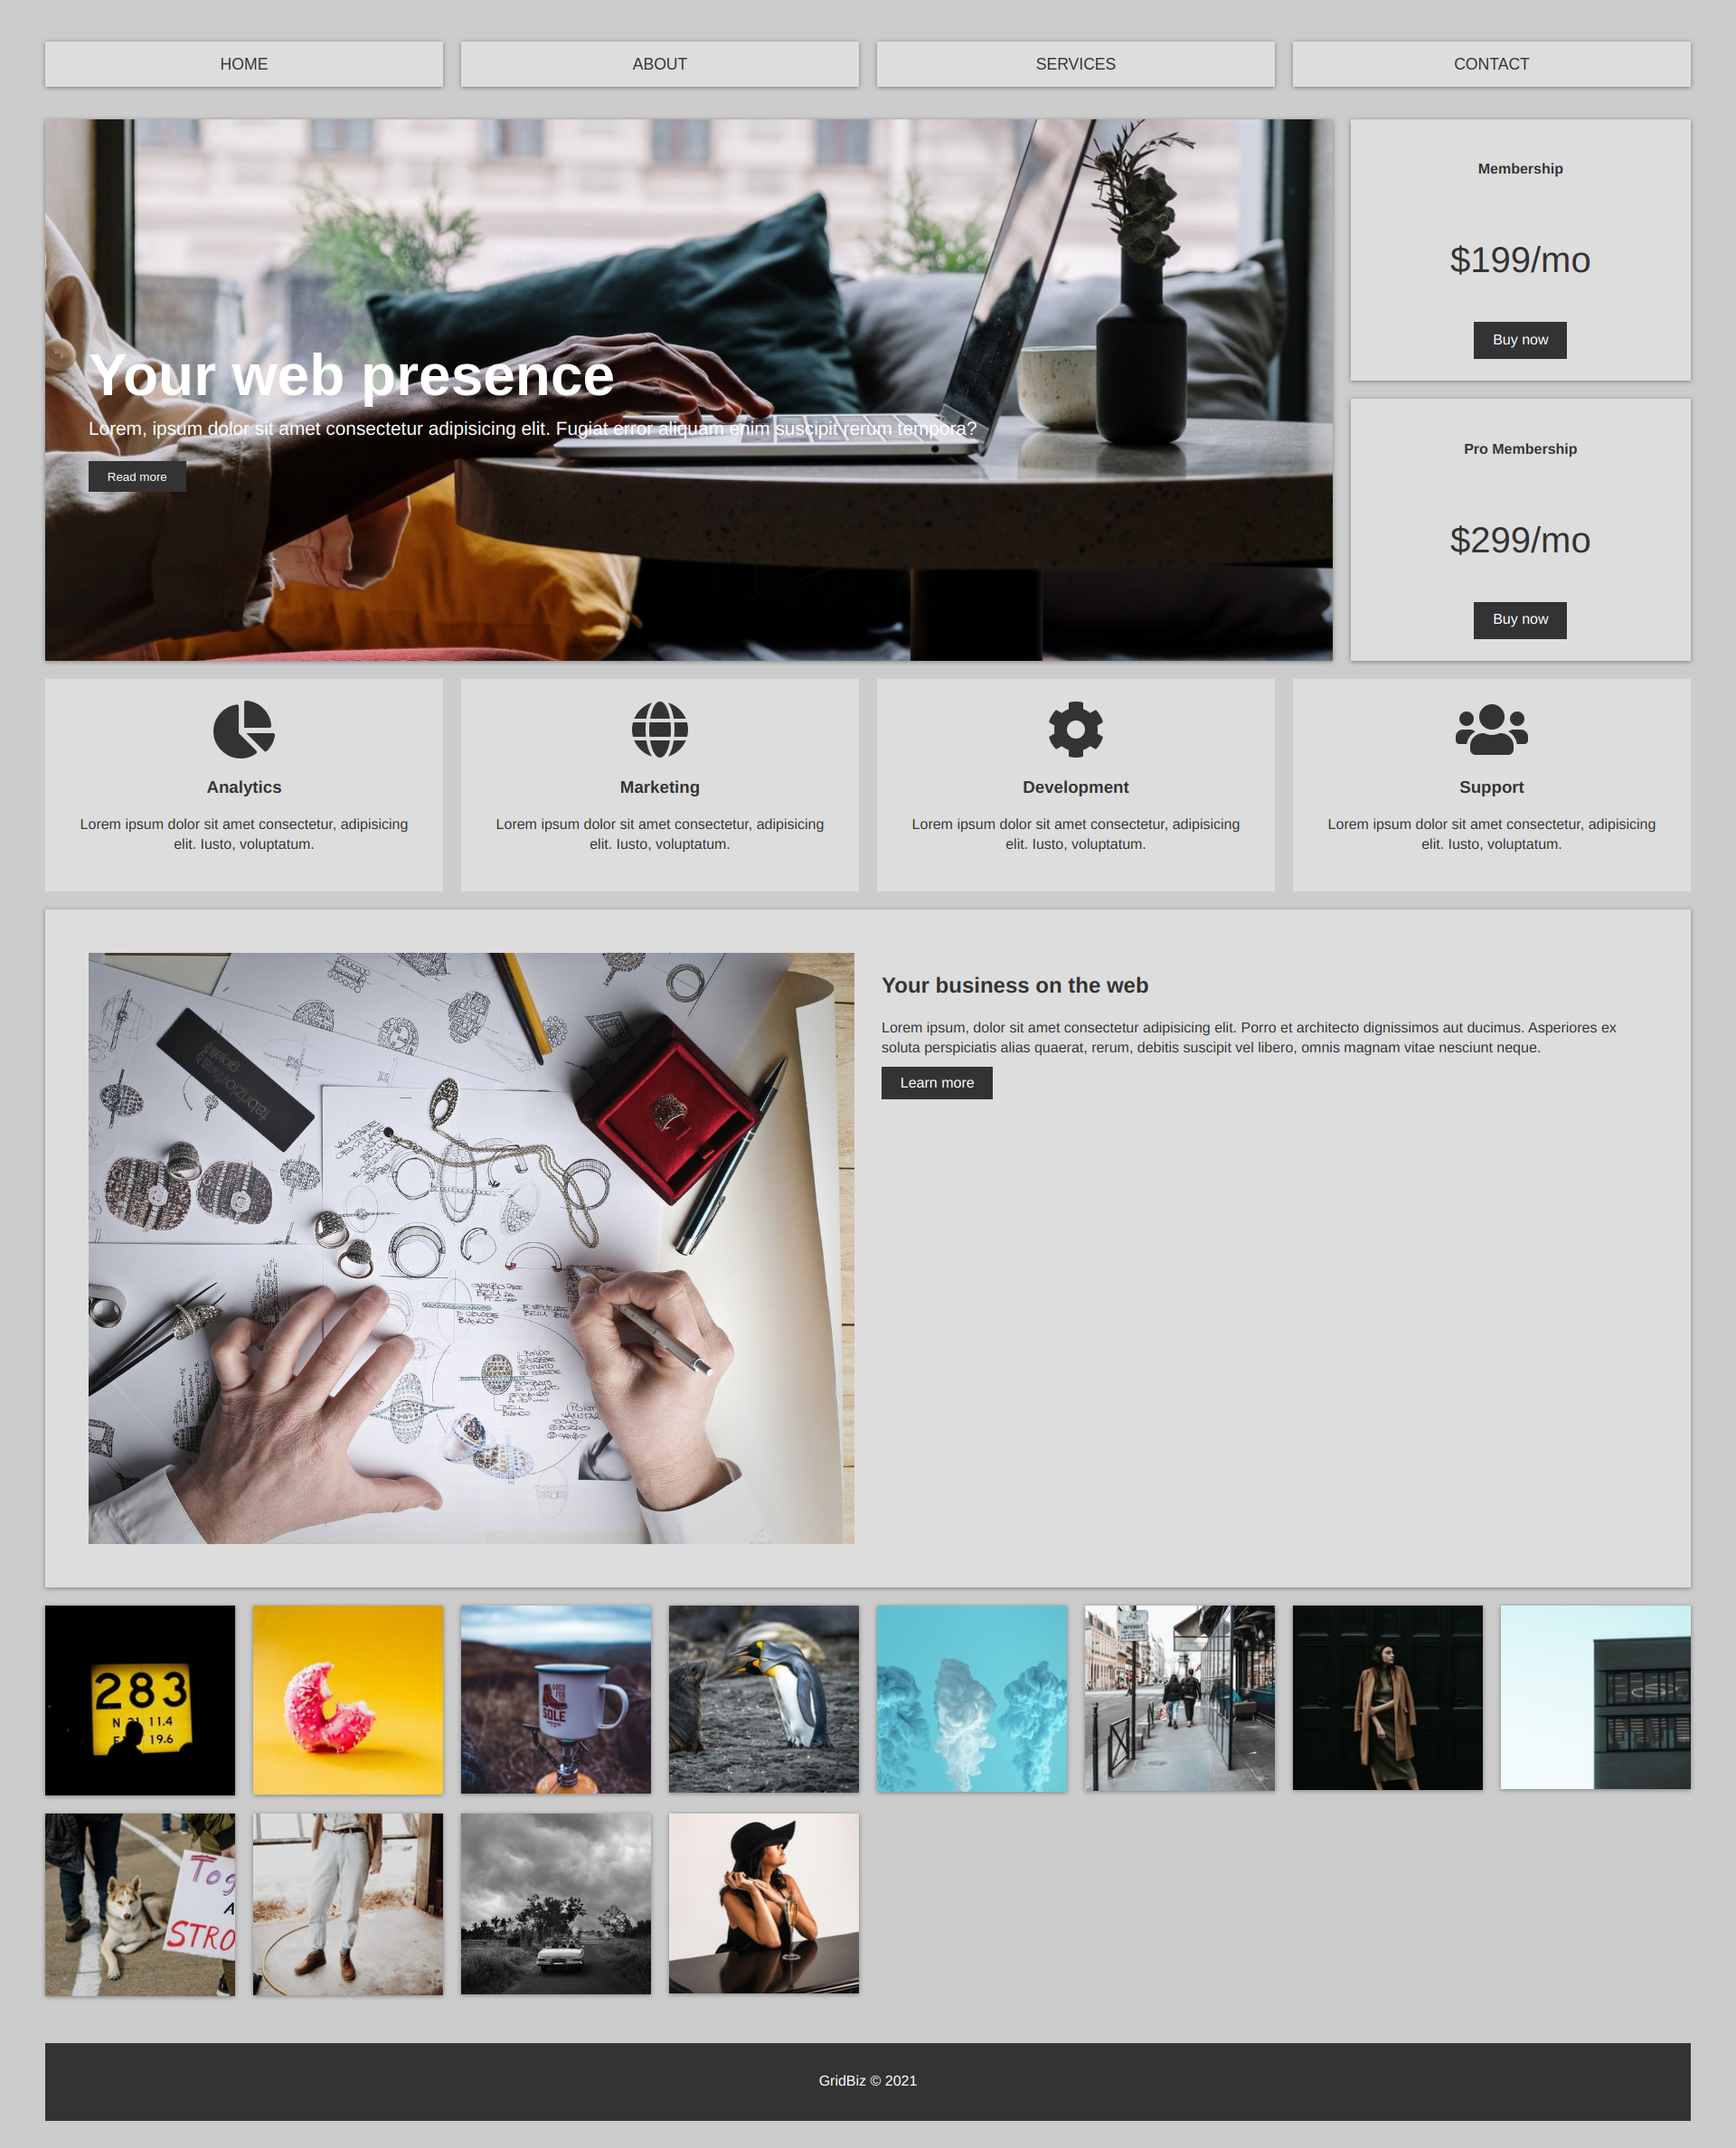
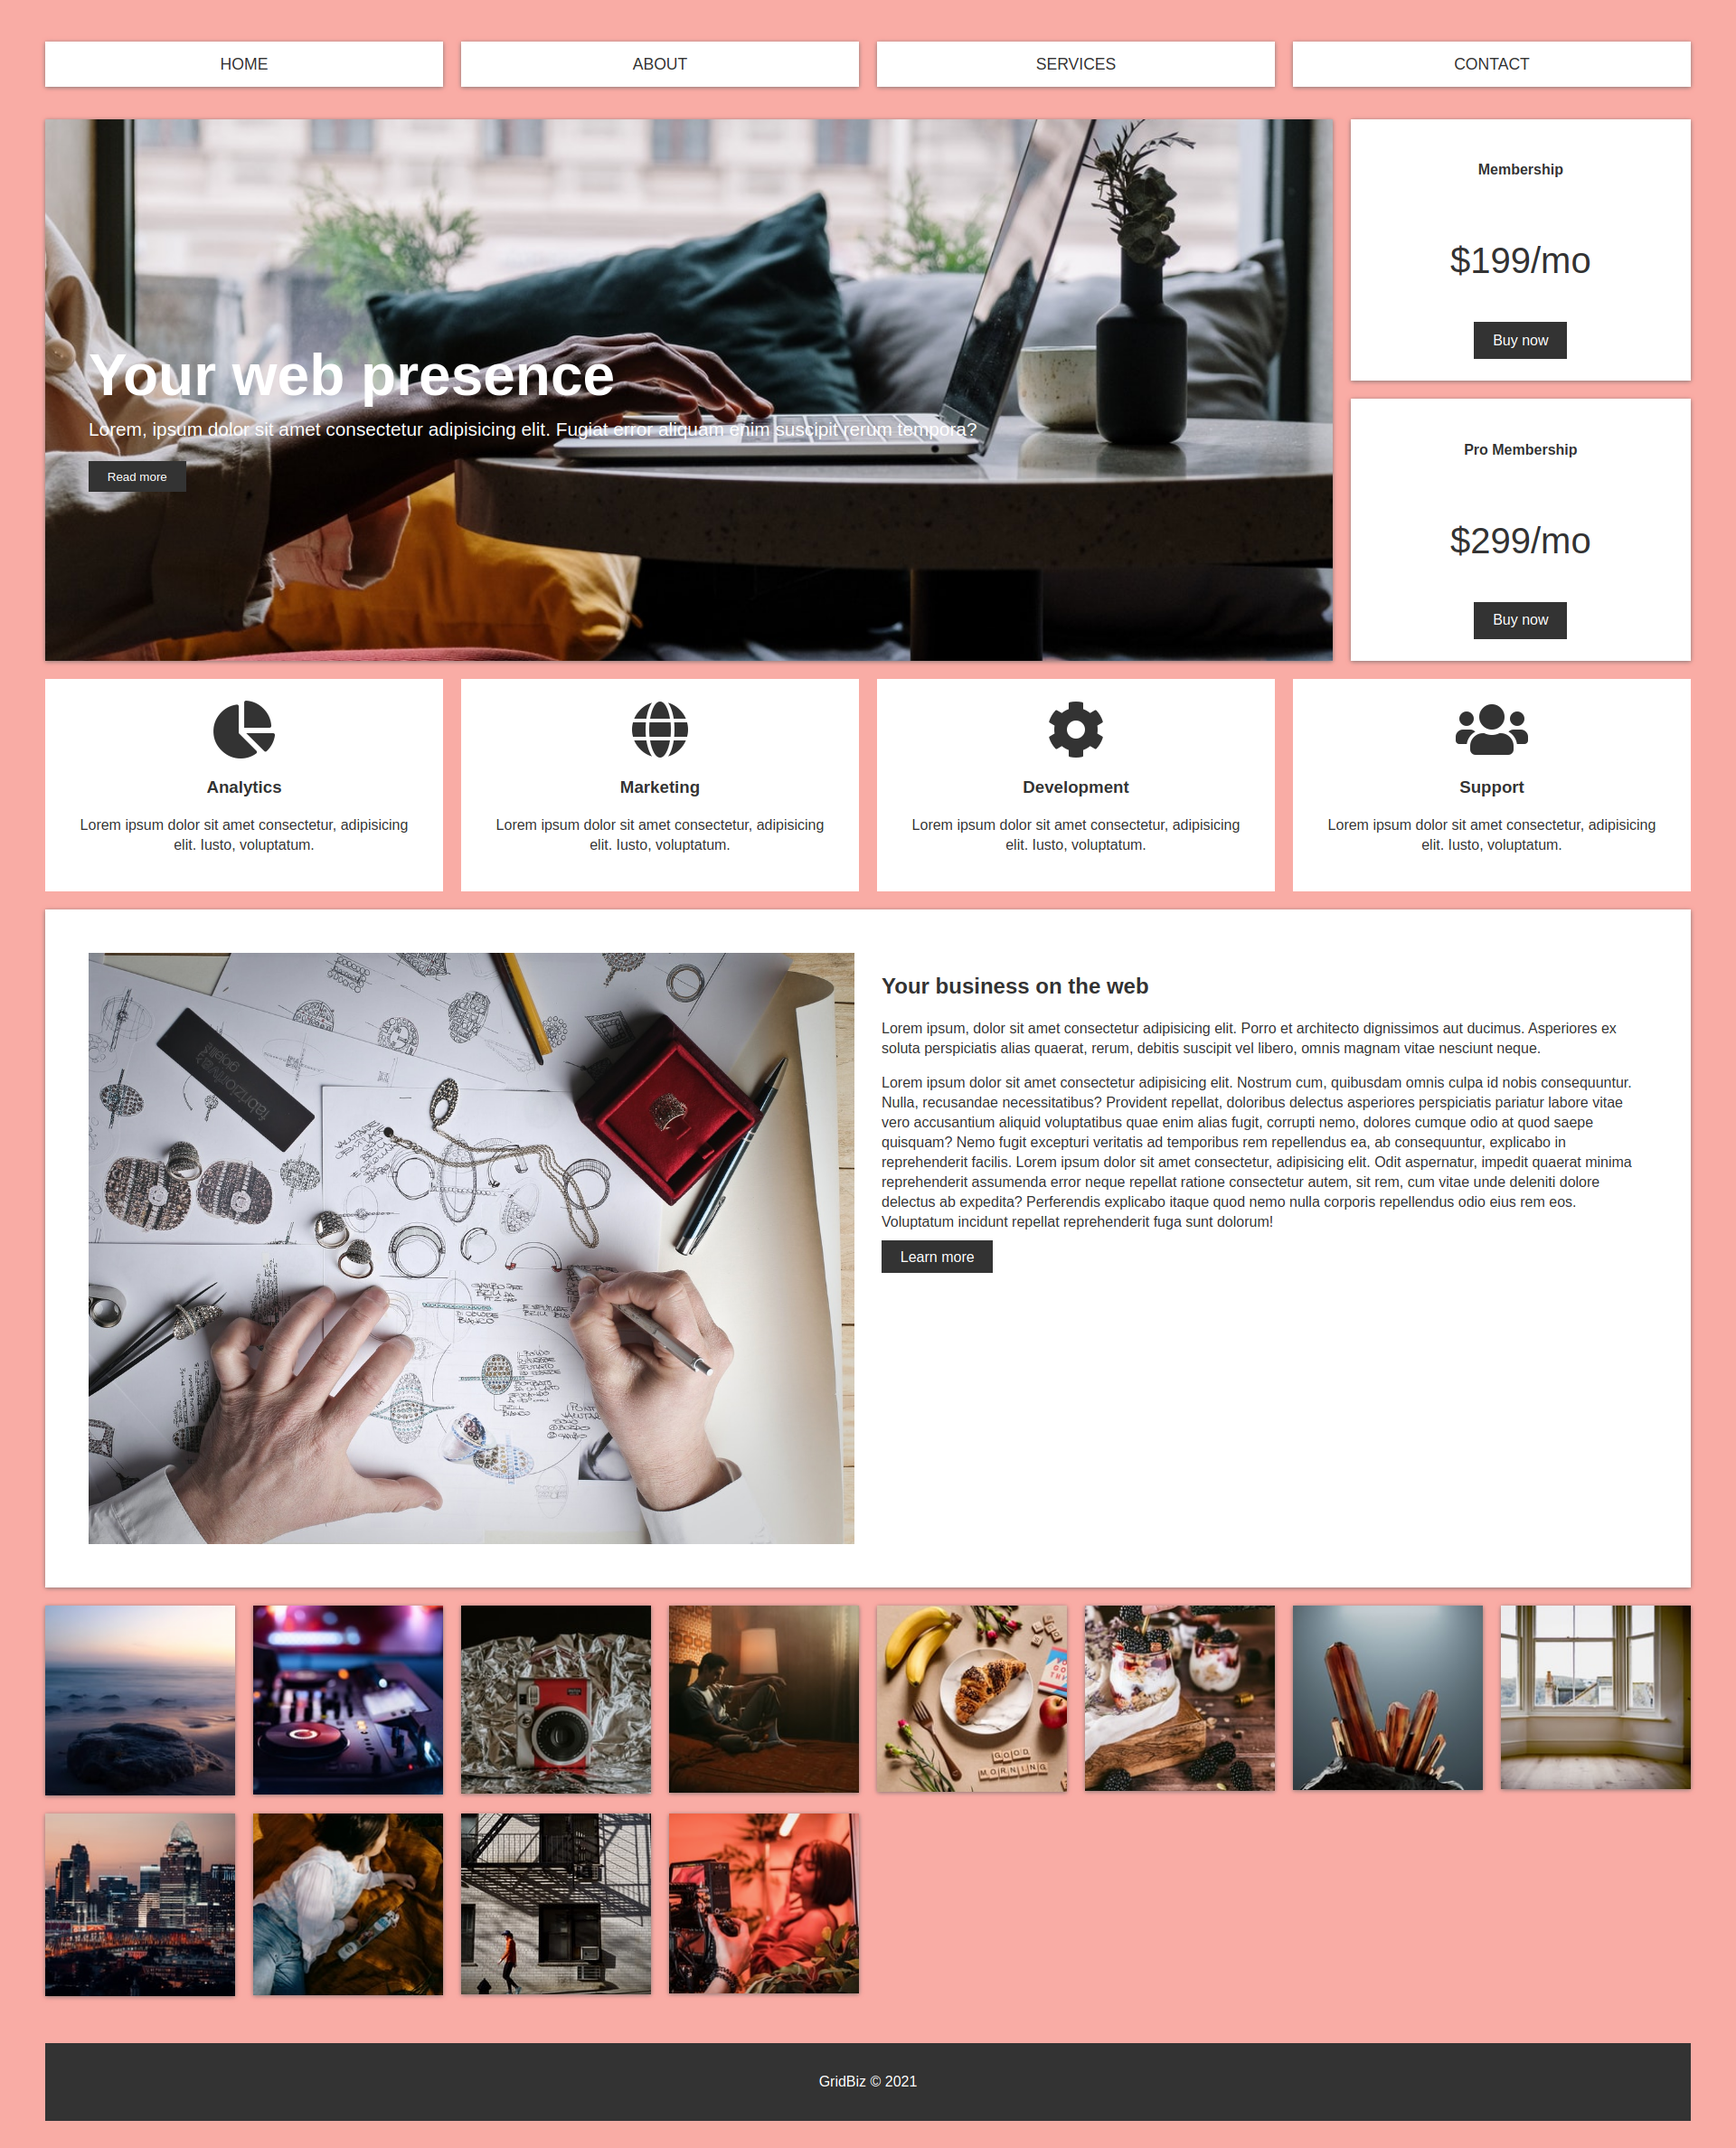
final

diff --git a/index.html b/index.html
@@ -73,6 +73,7 @@
             <div>
                 <h2>Your business on the web</h2>
                 <p>Lorem ipsum, dolor sit amet consectetur adipisicing elit. Porro et architecto dignissimos aut ducimus. Asperiores ex soluta perspiciatis alias quaerat, rerum, debitis suscipit vel libero, omnis magnam vitae nesciunt neque.</p>
+                <p>Lorem ipsum dolor sit amet consectetur adipisicing elit. Nostrum cum, quibusdam omnis culpa id nobis consequuntur. Nulla, recusandae necessitatibus? Provident repellat, doloribus delectus asperiores perspiciatis pariatur labore vitae vero accusantium aliquid voluptatibus quae enim alias fugit, corrupti nemo, dolores cumque odio at quod saepe quisquam? Nemo fugit excepturi veritatis ad temporibus rem repellendus ea, ab consequuntur, explicabo in reprehenderit facilis. Lorem ipsum dolor sit amet consectetur, adipisicing elit. Odit aspernatur, impedit quaerat minima reprehenderit assumenda error neque repellat ratione consectetur autem, sit rem, cum vitae unde deleniti dolore delectus ab expedita? Perferendis explicabo itaque quod nemo nulla corporis repellendus odio eius rem eos. Voluptatum incidunt repellat reprehenderit fuga sunt dolorum!</p>
                 <a href="#" class="btn">Learn more</a>
             </div>
         </section>

diff --git a/style.css b/style.css
@@ -1,7 +1,7 @@
 /* css variables */
 
 :root{
-    --primary: #ddd;
+    --primary: #fff;
     --dark: #333;
     --light: #fff;
     --shadow: 0 1px 5px rgba(104, 104, 104, 0.8);
@@ -12,7 +12,7 @@ html{
     color: var(--dark);
 }
 body{
-    background: #ccc;
+    background: #fcaca5;
     margin: 30px 50px;
     line-height: 1.4;
 }
